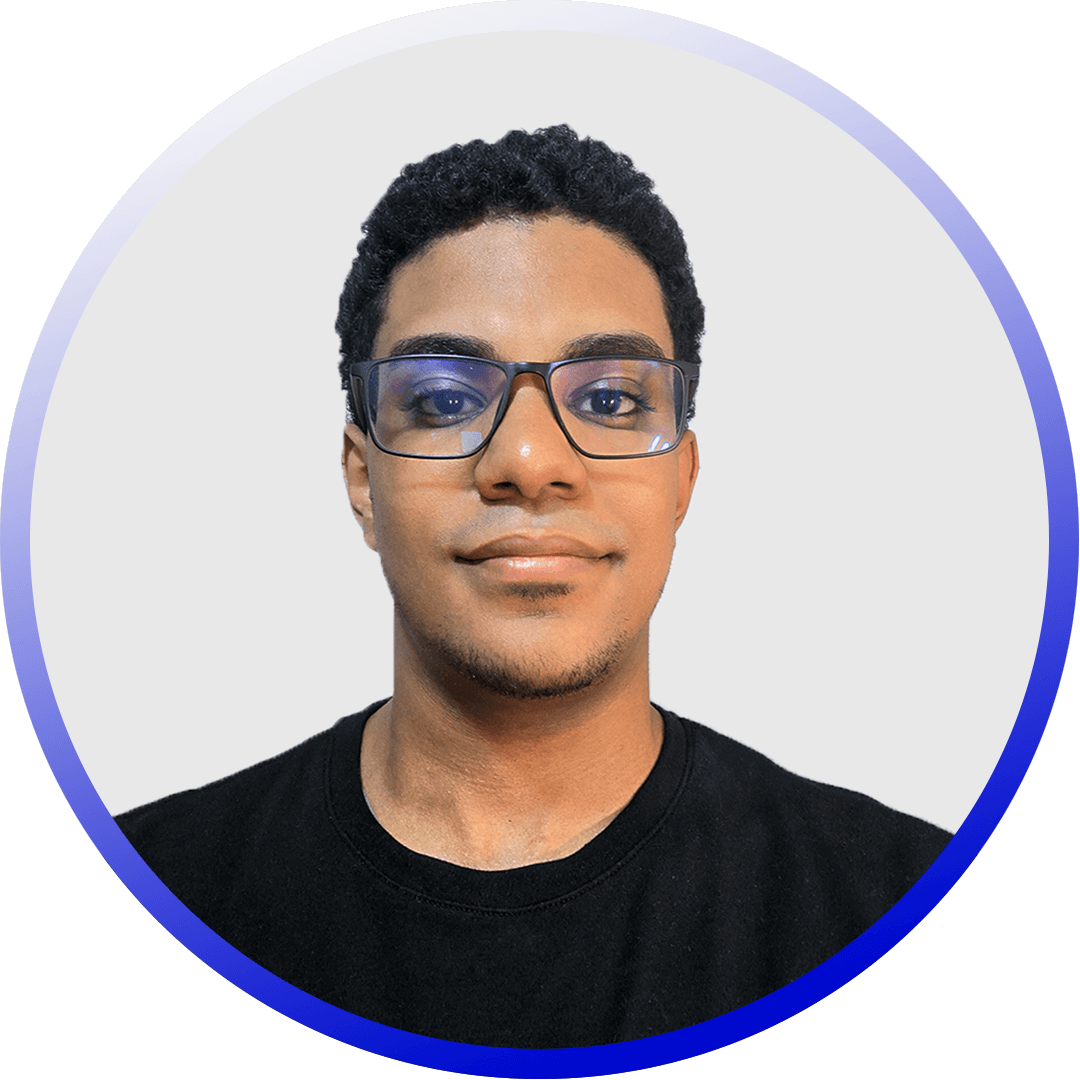
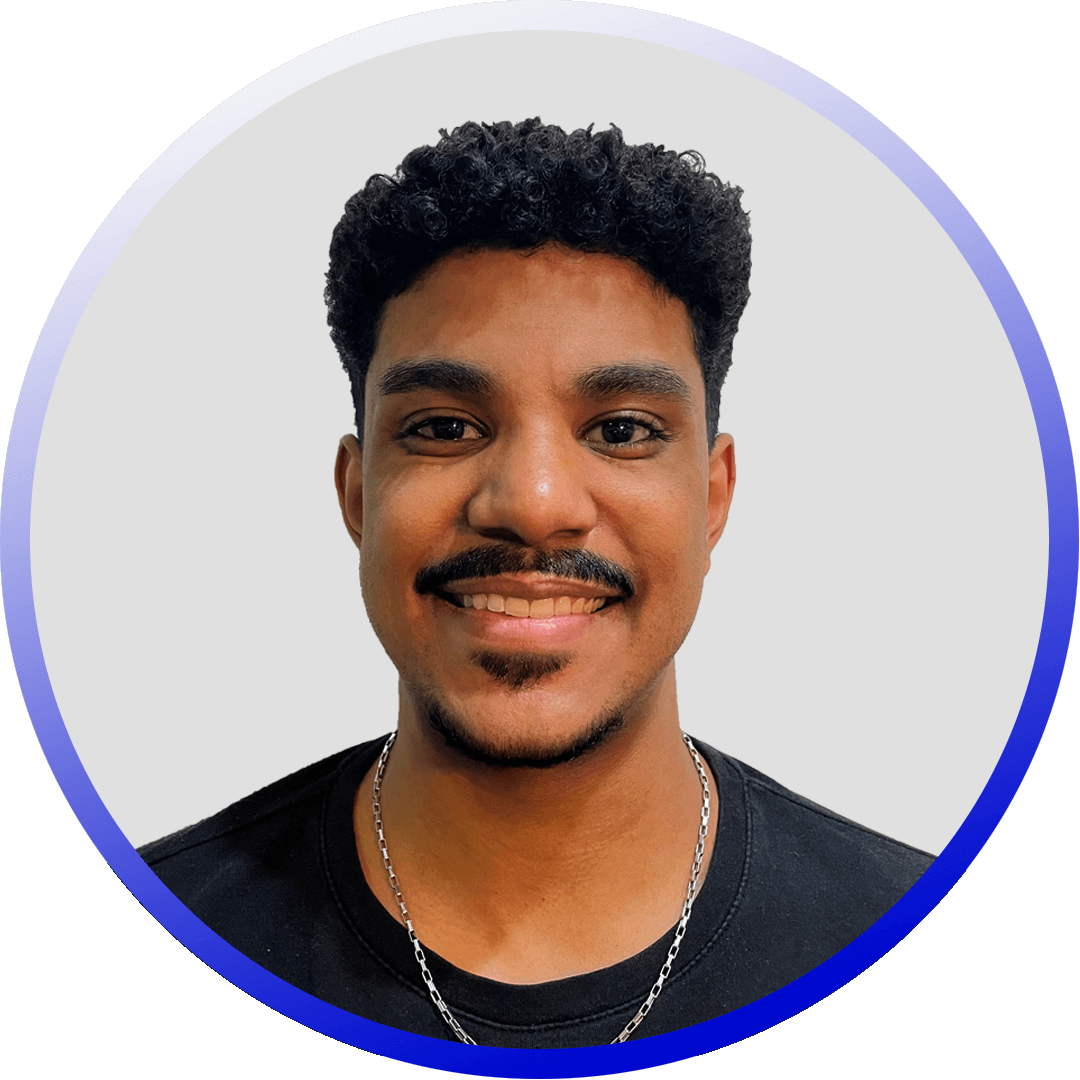
Updating the portfolio
Updating the projects, images, titles and links

Changed region(s): [[0.0917, 0.0917, 0.8861, 0.9778], [0.1833, 0.7944, 0.2139, 0.825]]

diff --git a/app/constants/constants.js b/app/constants/constants.js
@@ -5,8 +5,7 @@ import {
   web,
   calendarApp,
   cryptoverse,
-  totiStore,
-  carhub
+  naturalbrows
 } from '@public/assets';
 
 import {
@@ -43,23 +42,23 @@ export const navLinks = [
     id: 'work',
     title: 'Work',
   },
-  {
-    id: 'contact',
-    title: 'Contact',
-  },
+  // {
+  //   id: 'contact',
+  //   title: 'Contact',
+  // },
 ];
 
 const services = [
-  // {
-  //   title: 'Web Developer',
-  //   icon: web,
-  // },
+  {
+    title: 'Web Developer',
+    icon: web,
+  },
   {
     title: 'Frontend Developer',
     icon: creator,
   },
   {
-    title: 'React Developer',
+    title: 'API Developer',
     icon: mobile,
   },
   {
@@ -146,60 +145,60 @@ const techsWithColor = [
   },
 ];
 
-const experiences = [
-  {
-    title: 'React.js Developer',
-    company_name: 'Starbucks',
-    // icon: starbucks,
-    iconBg: '#383E56',
-    date: 'March 2020 - April 2021',
-    points: [
-      'Developing and maintaining web applications using React.js and other related technologies.',
-      'Collaborating with cross-functional teams including designers, product managers, and other developers to create high-quality products.',
-      'Implementing responsive design and ensuring cross-browser compatibility.',
-      'Participating in code reviews and providing constructive feedback to other developers.',
-    ],
-  },
-  {
-    title: 'React Native Developer',
-    company_name: 'Tesla',
-    // icon: tesla,
-    iconBg: '#E6DEDD',
-    date: 'Jan 2021 - Feb 2022',
-    points: [
-      'Developing and maintaining web applications using React.js and other related technologies.',
-      'Collaborating with cross-functional teams including designers, product managers, and other developers to create high-quality products.',
-      'Implementing responsive design and ensuring cross-browser compatibility.',
-      'Participating in code reviews and providing constructive feedback to other developers.',
-    ],
-  },
-  {
-    title: 'Web Developer',
-    company_name: 'Shopify',
-    // icon: shopify,
-    iconBg: '#383E56',
-    date: 'Jan 2022 - Jan 2023',
-    points: [
-      'Developing and maintaining web applications using React.js and other related technologies.',
-      'Collaborating with cross-functional teams including designers, product managers, and other developers to create high-quality products.',
-      'Implementing responsive design and ensuring cross-browser compatibility.',
-      'Participating in code reviews and providing constructive feedback to other developers.',
-    ],
-  },
-  {
-    title: 'Full stack Developer',
-    company_name: 'Meta',
-    // icon: meta,
-    iconBg: '#E6DEDD',
-    date: 'Jan 2023 - Present',
-    points: [
-      'Developing and maintaining web applications using React.js and other related technologies.',
-      'Collaborating with cross-functional teams including designers, product managers, and other developers to create high-quality products.',
-      'Implementing responsive design and ensuring cross-browser compatibility.',
-      'Participating in code reviews and providing constructive feedback to other developers.',
-    ],
-  },
-];
+// const experiences = [
+//   {
+//     title: 'React.js Developer',
+//     company_name: 'Starbucks',
+//     // icon: starbucks,
+//     iconBg: '#383E56',
+//     date: 'March 2020 - April 2021',
+//     points: [
+//       'Developing and maintaining web applications using React.js and other related technologies.',
+//       'Collaborating with cross-functional teams including designers, product managers, and other developers to create high-quality products.',
+//       'Implementing responsive design and ensuring cross-browser compatibility.',
+//       'Participating in code reviews and providing constructive feedback to other developers.',
+//     ],
+//   },
+//   {
+//     title: 'React Native Developer',
+//     company_name: 'Tesla',
+//     // icon: tesla,
+//     iconBg: '#E6DEDD',
+//     date: 'Jan 2021 - Feb 2022',
+//     points: [
+//       'Developing and maintaining web applications using React.js and other related technologies.',
+//       'Collaborating with cross-functional teams including designers, product managers, and other developers to create high-quality products.',
+//       'Implementing responsive design and ensuring cross-browser compatibility.',
+//       'Participating in code reviews and providing constructive feedback to other developers.',
+//     ],
+//   },
+//   {
+//     title: 'Web Developer',
+//     company_name: 'Shopify',
+//     // icon: shopify,
+//     iconBg: '#383E56',
+//     date: 'Jan 2022 - Jan 2023',
+//     points: [
+//       'Developing and maintaining web applications using React.js and other related technologies.',
+//       'Collaborating with cross-functional teams including designers, product managers, and other developers to create high-quality products.',
+//       'Implementing responsive design and ensuring cross-browser compatibility.',
+//       'Participating in code reviews and providing constructive feedback to other developers.',
+//     ],
+//   },
+//   {
+//     title: 'Full stack Developer',
+//     company_name: 'Meta',
+//     // icon: meta,
+//     iconBg: '#E6DEDD',
+//     date: 'Jan 2023 - Present',
+//     points: [
+//       'Developing and maintaining web applications using React.js and other related technologies.',
+//       'Collaborating with cross-functional teams including designers, product managers, and other developers to create high-quality products.',
+//       'Implementing responsive design and ensuring cross-browser compatibility.',
+//       'Participating in code reviews and providing constructive feedback to other developers.',
+//     ],
+//   },
+// ];
 
 const projects = [
   {
@@ -224,28 +223,28 @@ const projects = [
     source_code_link: 'https://github.com/ajcrauseo/Calendar-App-API',
     project_link: 'https://toti-calendar-app.netlify.app/',
   },
-  {
-    name: 'Car Hub',
-    description:
-      'Web application allows you to search cars with differents manufacturers and models, and filter by fuel and year.',
-    tags: [
-      {
-        name: 'nextjs 13',
-        color: 'blue-text-gradient',
-      },
-      {
-        name: 'typescript',
-        color: 'green-text-gradient',
-      },
-      {
-        name: 'rapid api',
-        color: 'pink-text-gradient',
-      },
-    ],
-    image: carhub,
-    source_code_link: 'https://github.com/ajcrauseo/car-hub/',
-    project_link: 'https://car-hub-zeta-ten.vercel.app/',
-  },
+  // {
+  //   name: 'Car Hub',
+  //   description:
+  //     'Web application allows you to search cars with differents manufacturers and models, and filter by fuel and year.',
+  //   tags: [
+  //     {
+  //       name: 'nextjs 13',
+  //       color: 'blue-text-gradient',
+  //     },
+  //     {
+  //       name: 'typescript',
+  //       color: 'green-text-gradient',
+  //     },
+  //     {
+  //       name: 'rapid api',
+  //       color: 'pink-text-gradient',
+  //     },
+  //   ],
+  //   image: carhub,
+  //   source_code_link: 'https://github.com/ajcrauseo/car-hub/',
+  //   project_link: 'https://car-hub-zeta-ten.vercel.app/',
+  // },
   {
     name: 'Cryptoverse',
     description:
@@ -269,27 +268,49 @@ const projects = [
     project_link: 'https://toti-cryptoverse.netlify.app/',
   },
   {
-    name: 'Toti Store',
+    name: 'NaturalBrows',
     description:
-      'Ecommerce with a list of products, a cart and checkout section.',
+      'Informative website to learn about the services offered by the company',
     tags: [
       {
-        name: 'react',
+        name: 'tailwindcss',
         color: 'blue-text-gradient',
       },
       {
-        name: 'commercejs',
+        name: 'nextjs',
         color: 'green-text-gradient',
       },
       {
-        name: 'material ui',
+        name: 'typescript',
         color: 'pink-text-gradient',
       },
     ],
-    image: totiStore,
-    source_code_link: 'https://github.com/ajcrauseo/toti-store',
-    project_link: 'https://totistore.netlify.app/',
+    image: naturalbrows,
+    source_code_link: 'https://github.com/ajcrauseo/',
+    project_link: 'https://www.naturalbrows.studio/',
   },
+  // {
+  //   name: 'Toti Store',
+  //   description:
+  //     'Ecommerce with a list of products, a cart and checkout section.',
+  //   tags: [
+  //     {
+  //       name: 'react',
+  //       color: 'blue-text-gradient',
+  //     },
+  //     {
+  //       name: 'commercejs',
+  //       color: 'green-text-gradient',
+  //     },
+  //     {
+  //       name: 'material ui',
+  //       color: 'pink-text-gradient',
+  //     },
+  //   ],
+  //   image: totiStore,
+  //   source_code_link: 'https://github.com/ajcrauseo/toti-store',
+  //   project_link: 'https://totistore.netlify.app/',
+  // },
 ];
 
 const footerLinks = [
@@ -299,4 +320,4 @@ const footerLinks = [
   { name: 'Instagram', url: 'https://www.instagram.com/ajcrauseo/' },
 ];
 
-export { services, experiences, projects, footerLinks, techs, techsWithColor };
+export { services, projects, footerLinks, techs, techsWithColor };

diff --git a/app/components/Hero.jsx b/app/components/Hero.jsx
@@ -41,12 +41,12 @@ const Hero = () => {
           {/* Hero Copy */}
           <div>
             <h1 className={`${styles.heroHeadText} text-white`}>
-              Frontend Developer
+              Full Stack Developer
             </h1>
             <p className={`${styles.heroSubText} mt-2 text-white-100`}>
               Hi I&apos;m <span className='text-accent'>Antony Cabeza</span>{' '}
               <br className='sm:block hidden' />
-              Frontend Developer with React
+              Full Stack Developer with Next.js and Node.js
             </p>
             {/* Links a RRSS */}
             <div className='flex gap-5 mt-8'>

diff --git a/app/components/Footer.jsx b/app/components/Footer.jsx
@@ -5,7 +5,7 @@ import { footerLinks } from '../constants/constants';
 const Footer = () => {
   return (
     <footer className='bg-tertiary text-white-100 px-8 py-6 md:py-10 h-auto w-full flex flex-col items-center'>
-      <h3 className='text-xl md:text-2xl'>Follow me in Social Media</h3>
+      <h3 className='text-xl md:text-2xl'>Contact me in Social Media</h3>
       <div className='flex justify-evenly mt-6 w-full md:w-1/2 xl:w-1/3'>
         <Link
           href={footerLinks[0].url}

diff --git a/app/components/Navbar.jsx b/app/components/Navbar.jsx
@@ -31,7 +31,7 @@ const Navbar = () => {
           <Image src={logo} alt='logo' className='w-9 h-9 object-contain' />
           <p className='text-white text-[18px] font-bold cursor-pointer flex'>
             Antony Cabeza &nbsp;
-            <span className='lg:block hidden'>|&nbsp; Frontend Developer</span>
+            {/* <span className='lg:block hidden'>|&nbsp; Frontend Developer</span> */}
           </p>
         </ScrollLink>
         {/* Links en Desktop */}

diff --git a/app/page.js b/app/page.js
@@ -15,11 +15,11 @@ export default function HomePage() {
       <Works />
 
       <div className='relative z-0'>
-        <Contact
+        {/* <Contact
           EMAIL_JS_SERVICE_ID={EMAIL_JS_SERVICE_ID}
           EMAIL_JS_TEMPLATE_ID={EMAIL_JS_TEMPLATE_ID}
           EMAIL_JS_PUBLIC_KEY={EMAIL_JS_PUBLIC_KEY}
-        />
+        /> */}
       </div>
       <Footer />
     </main>

diff --git a/public/assets/index.js b/public/assets/index.js
@@ -12,6 +12,7 @@ import calendarApp from './calendar-app.png';
 import cryptoverse from './cryptoverse.png';
 import totiStore from './toti-store.png';
 import carhub from './carhub.png';
+import naturalbrows from './naturalbrows.png';
 
 export {
   logo,
@@ -26,5 +27,6 @@ export {
   calendarApp,
   cryptoverse,
   totiStore,
-  carhub
+  carhub,
+  naturalbrows
 };
